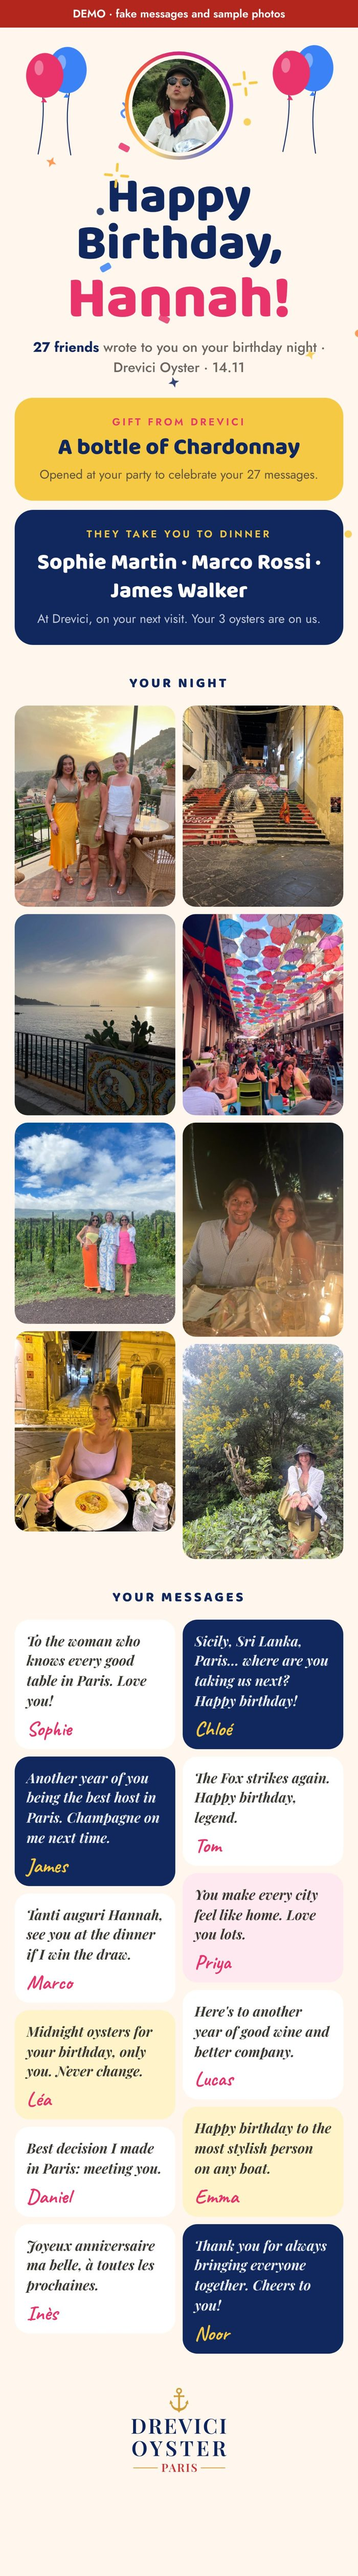
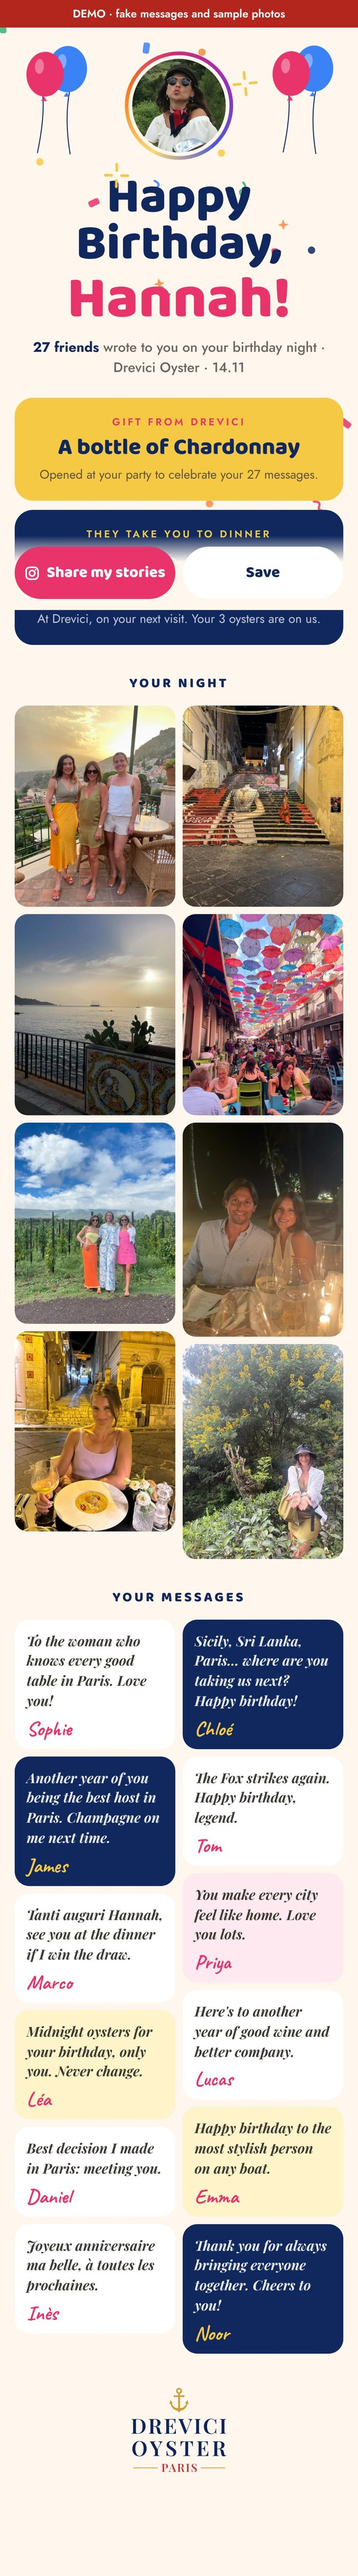
Hannah : mode test du livre, parcours à jour avec le test et les stories
Claude-Session: https://claude.ai/code/session_012ueJSkHMqbZpvX7x5D3Dw2

diff --git a/drevici-preview/hannah-parcours.html b/drevici-preview/hannah-parcours.html
@@ -7,7 +7,12 @@ main{display:flex;flex-wrap:wrap;gap:22px;align-items:flex-start}
 h2{flex-basis:100%;font:800 26px 'Baloo 2',system-ui;color:var(--navy);margin-top:30px}
 figure{width:340px;max-width:100%;background:#fff;border-radius:22px;padding:12px}
 figure.mail,figure:not(.phone):not(.mail){width:420px}
-figure img,figure video{display:block;width:100%;border-radius:14px}
+figure.wide{width:100%}figure img,figure video{display:block;width:100%;border-radius:14px}
 figcaption{font-size:14px;line-height:1.45;padding:12px 4px 4px}figcaption b{display:block;font:800 18px 'Baloo 2',system-ui;color:var(--pink);margin-bottom:2px}
 figcaption a{display:inline-block;margin-top:10px;background:var(--navy);color:#fff;text-decoration:none;font:600 13px Jost;border-radius:99px;padding:8px 16px}
-</style></head><body><header><h1>Anniversaire de <em>Hannah</em> · de A à Z</h1><p>Toutes les étapes dans l'ordre. Les liens « Ouvrir en direct » ouvrent les vraies pages en mode test : rien n'est enregistré.</p></header><main><h2>Avant la soirée</h2><figure class=""><img src="media/hannah-parcours/00.jpg?v=3" alt="" loading="lazy"><figcaption><b>L'affiche A4</b>Passée de main en main. Le QR (avec votre renard) ouvre la page de Hannah.<a href="media/hannah-parcours/Hannah-QR-A4.pdf" target="_blank">Télécharger le PDF</a></figcaption></figure><h2>Pendant la soirée</h2><figure class="phone"><video src="media/hannah-parcours/intro.mp4?v=3" autoplay muted loop playsinline></video><figcaption><b>0 · L'intro (4 s)</b>Au scan : la photo charge en grand façon story, confettis, puis la photo et le titre glissent à leur place.<a href="https://drevici-preview.beltab.app/paris/hannah?intro" target="_blank">Ouvrir en direct</a></figcaption></figure><figure class="phone"><img src="media/hannah-parcours/02.jpg?v=3" alt="" loading="lazy"><figcaption><b>1 · La page d'accueil</b>La règle des bouteilles de Chardonnay, le club, le tirage.<a href="https://drevici-preview.beltab.app/paris/hannah?test" target="_blank">Ouvrir en direct</a></figcaption></figure><figure class="phone"><img src="media/hannah-parcours/03.jpg?v=3" alt="" loading="lazy"><figcaption><b>2 · Le message</b>Prénom, nom, email, message. Le club n'est jamais pré-coché ; s'il l'active, le téléphone est demandé.</figcaption></figure><figure class="phone"><img src="media/hannah-parcours/04.jpg?v=3" alt="" loading="lazy"><figcaption><b>3 · Envoyé, membre du club</b>Pluie de confettis. Ticket bleu avec nœud et code : sa coupe de champagne pour la prochaine visite.</figcaption></figure><figure class="phone"><img src="media/hannah-parcours/05.jpg?v=3" alt="" loading="lazy"><figcaption><b>3 bis · Envoyé, sans le club</b>Même coupe, mais verrouillée (gris). Le bouton « Join » la débloque.</figcaption></figure><figure class="phone"><img src="media/hannah-parcours/06.jpg?v=3" alt="" loading="lazy"><figcaption><b>4 · Le mur live</b>Sur un écran ou votre téléphone : compteur, bouteilles gagnées, derniers messages.<a href="https://drevici-preview.beltab.app/paris/hannah-live?test" target="_blank">Ouvrir en direct</a></figcaption></figure><h2>Après minuit</h2><figure class="phone"><img src="media/hannah-parcours/07.jpg?v=3" alt="" loading="lazy"><figcaption><b>5 · Le tirage (vous seul)</b>Le bouton « Draw 3 names » n'apparaît qu'avec votre lien secret. Juste en dessous, vos 3 emails prêts à partir.</figcaption></figure><figure class="mail"><img src="media/hannah-parcours/08.jpg?v=3" alt="" loading="lazy"><figcaption><b>6 · L'email aux 3 gagnants</b>Leur code dîner, les noms des deux autres, les 3 étapes, le lien de réservation, et s'ils ne peuvent pas venir : passer le code à un ami (sauf vous). Vous êtes exclu du tirage.</figcaption></figure><h2>Dimanche</h2><figure class="mail"><img src="media/hannah-parcours/09.jpg?v=3" alt="" loading="lazy"><figcaption><b>7 · L'email de Hannah</b>Les 3 gagnants, la bouteille de chardonnay, les photos de la soirée et tous les messages.</figcaption></figure><figure class="phone"><img src="media/hannah-parcours/10.jpg?v=3" alt="" loading="lazy"><figcaption><b>8 · Son livre</b>Sa page complète, avec « Share as a story ».<a href="https://drevici-preview.beltab.app/paris/hannah-book?demo" target="_blank">Ouvrir en direct</a></figcaption></figure><figure class="phone"><img src="media/hannah-parcours/11.jpg?v=3" alt="" loading="lazy"><figcaption><b>9 · Sa story Instagram</b>L'image 1080 × 1920 générée depuis son livre.</figcaption></figure></main></body></html>
+.test{max-width:1180px;margin:24px auto 0;background:#10285E;color:#fff;border-radius:22px;padding:20px 22px}.test h2{color:#fff;margin:0 0 10px;font:800 24px 'Baloo 2'}.test ol{padding-left:20px;line-height:1.7;font-size:15px}.test a{color:#F6C945;font-weight:600}.test p{margin-top:10px;font-size:13px;opacity:.8}</style></head><body><header><h1>Anniversaire de <em>Hannah</em> · de A à Z</h1><p>Toutes les étapes dans l'ordre. Les liens « Ouvrir en direct » ouvrent les vraies pages en mode test : rien n'est enregistré.</p></header><section class="test"><h2>Le test, à faire sur votre téléphone</h2><ol>
+<li><a href="https://drevici-preview.beltab.app/paris/hannah?test&intro" target="_blank">Ouvrez la page invité</a> : l'intro se joue, puis écrivez un message (avec ou sans le club).</li>
+<li><a href="https://drevici-preview.beltab.app/paris/hannah-live?test" target="_blank">Ouvrez le mur</a> : votre message apparaît. Touchez « Draw 3 names » pour voir le tirage et les emails.</li>
+<li><a href="https://drevici-preview.beltab.app/paris/hannah-book?test" target="_blank">Ouvrez le livre de Hannah</a> : votre message y est. Touchez une photo, puis « Share my stories ».</li>
+<li>Deux emails de test sont dans votre boîte : celui des gagnants et celui de Hannah.</li></ol>
+<p>Tout reste sur votre téléphone, rien n'est enregistré. Le lien « reset » en haut des pages remet le test à zéro.</p></section><main><h2>Avant la soirée</h2><figure class=""><img src="media/hannah-parcours/00.jpg?v=4" alt="" loading="lazy"><figcaption><b>L'affiche A4</b>Passée de main en main. Le QR (avec votre renard) ouvre la page de Hannah.<a href="media/hannah-parcours/Hannah-QR-A4.pdf" target="_blank">Télécharger le PDF</a></figcaption></figure><h2>Pendant la soirée</h2><figure class="phone"><video src="media/hannah-parcours/intro.mp4?v=4" autoplay muted loop playsinline></video><figcaption><b>0 · L'intro (4 s)</b>Au scan : la photo charge en grand façon story, confettis, puis la photo et le titre glissent à leur place.<a href="https://drevici-preview.beltab.app/paris/hannah?intro" target="_blank">Ouvrir en direct</a></figcaption></figure><figure class="phone"><img src="media/hannah-parcours/02.jpg?v=4" alt="" loading="lazy"><figcaption><b>1 · La page d'accueil</b>La règle des bouteilles de Chardonnay, le club, le tirage.<a href="https://drevici-preview.beltab.app/paris/hannah?test" target="_blank">Ouvrir en direct</a></figcaption></figure><figure class="phone"><img src="media/hannah-parcours/03.jpg?v=4" alt="" loading="lazy"><figcaption><b>2 · Le message</b>Prénom, nom, email, message. Le club n'est jamais pré-coché ; s'il l'active, le téléphone est demandé.</figcaption></figure><figure class="phone"><img src="media/hannah-parcours/04.jpg?v=4" alt="" loading="lazy"><figcaption><b>3 · Envoyé, membre du club</b>Pluie de confettis. Ticket bleu avec nœud et code : sa coupe de champagne pour la prochaine visite.</figcaption></figure><figure class="phone"><img src="media/hannah-parcours/05.jpg?v=4" alt="" loading="lazy"><figcaption><b>3 bis · Envoyé, sans le club</b>Même coupe, mais verrouillée (gris). Le bouton « Join » la débloque.</figcaption></figure><figure class="phone"><img src="media/hannah-parcours/06.jpg?v=4" alt="" loading="lazy"><figcaption><b>4 · Le mur live</b>Sur un écran ou votre téléphone : compteur, bouteilles gagnées, derniers messages.<a href="https://drevici-preview.beltab.app/paris/hannah-live?test" target="_blank">Ouvrir en direct</a></figcaption></figure><h2>Après minuit</h2><figure class="phone"><img src="media/hannah-parcours/07.jpg?v=4" alt="" loading="lazy"><figcaption><b>5 · Le tirage (vous seul)</b>Le bouton « Draw 3 names » n'apparaît qu'avec votre lien secret. Juste en dessous, vos 3 emails prêts à partir.</figcaption></figure><figure class="mail"><img src="media/hannah-parcours/08.jpg?v=4" alt="" loading="lazy"><figcaption><b>6 · L'email aux 3 gagnants</b>Leur code dîner, les noms des deux autres, les 3 étapes, le lien de réservation, et s'ils ne peuvent pas venir : passer le code à un ami (sauf vous). Vous êtes exclu du tirage.</figcaption></figure><h2>Dimanche</h2><figure class="mail"><img src="media/hannah-parcours/09.jpg?v=4" alt="" loading="lazy"><figcaption><b>7 · L'email de Hannah</b>Les 3 gagnants, la bouteille de chardonnay, les photos de la soirée et tous les messages.</figcaption></figure><figure class="phone"><img src="media/hannah-parcours/10.jpg?v=4" alt="" loading="lazy"><figcaption><b>8 · Son livre</b>Sa page complète. Elle touche une photo : plein écran, et elle les fait glisser comme des cartes.<a href="https://drevici-preview.beltab.app/paris/hannah-book?demo" target="_blank">Ouvrir en direct</a></figcaption></figure><figure class="wide"><img src="media/hannah-parcours/11.jpg?v=4" alt="" loading="lazy"><figcaption><b>9 · Ses stories Instagram</b>Générées depuis son livre : une couverture puis des pages photo avec les messages en stickers. « Share all » les envoie toutes d'un coup.</figcaption></figure></main></body></html>

diff --git a/drevici-preview/hannah-book.html b/drevici-preview/hannah-book.html
@@ -96,6 +96,10 @@ const DEMO_PHOTOS=[1,2,3,4,5,6,7,8].map(i=>`media/hannah-demo/n${i}.jpg`);
 let D=null, PHOTOS=[];
 async function load(){
   if(DEMO){document.getElementById('demo').style.display='block';D=DEMO_DATA;PHOTOS=DEMO_PHOTOS;return render()}
+  if(Q.has('test')){let st=null;try{st=JSON.parse(localStorage.getItem('hannah-test'))}catch(e){}
+    const dm=document.getElementById('demo');dm.textContent='TEST · your test messages from this phone · sample photos';dm.style.display='block';
+    if(!st){D=DEMO_DATA}else{D={count:st.n,goal:25,drawn:(st.drawn||[]).map(w=>w.name),messages:st.rows.slice().reverse().map(r=>({first:r.first,msg:r.msg}))}}
+    PHOTOS=DEMO_PHOTOS;return render()}
   const r=await fetch(`${SB}/rest/v1/rpc/hannah_book`,{method:'POST',headers:{apikey:KEY,'Content-Type':'application/json'},body:JSON.stringify({p_key:Q.get('k')||''})}).then(r=>r.json()).catch(()=>null);
   if(!r||!r.ok){document.getElementById('app').innerHTML='<p class="sub" style="margin-top:40vh">This book is private.</p>';return}
   D=r;try{PHOTOS=(await fetch('media/hannah-night/photos.json').then(r=>r.json())).map(f=>'media/hannah-night/'+f)}catch(e){PHOTOS=[]}
